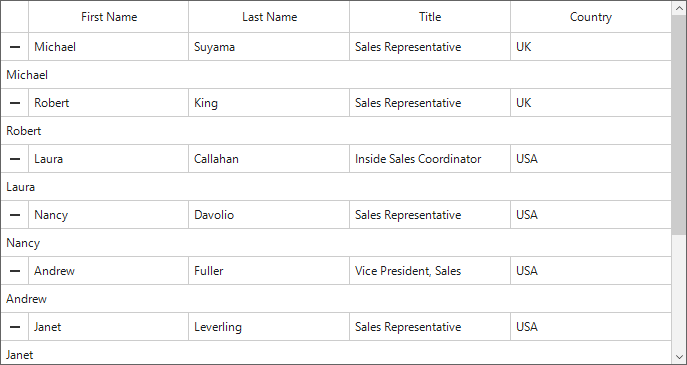
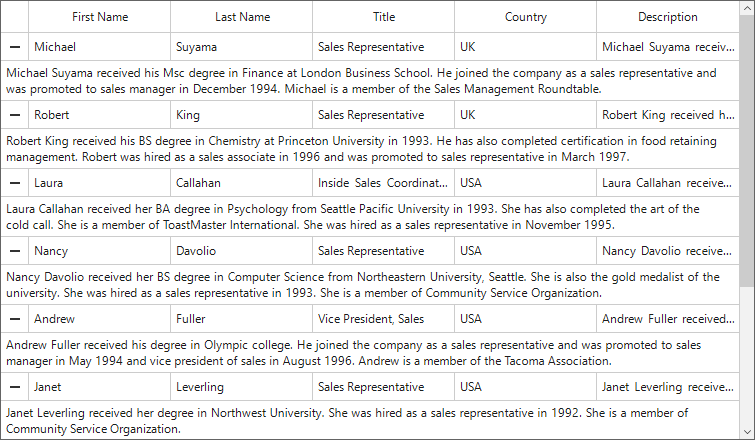
WF-48242 Prepare the UG documentation for the preview row support

diff --git a/WindowsForms/SfDataGrid/PreviewRows.md b/WindowsForms/SfDataGrid/PreviewRows.md
@@ -18,13 +18,13 @@ The preview row can be added to the grid by setting the [ShowPreviewRow](https:/
 {% highlight c# %}
 //Enable preview row for the SfDataGrid.
 sfDataGrid.ShowPreviewRow = true;
-sfDataGrid.PreviewRowMappingName = "FirstName";
+sfDataGrid.PreviewRowMappingName = "Description";
 sfDataGrid.ExpandAllPreviewRow();
 {% endhighlight %}
 {% highlight vb %}
 'Enable preview row for the SfDataGrid.
 sfDataGrid.ShowPreviewRow = True
-sfDataGrid.PreviewRowMappingName = "FirstName"
+sfDataGrid.PreviewRowMappingName = "Description"
 sfDataGrid.ExpandAllPreviewRow()
 {% endhighlight %}
 {% endtabs %}
